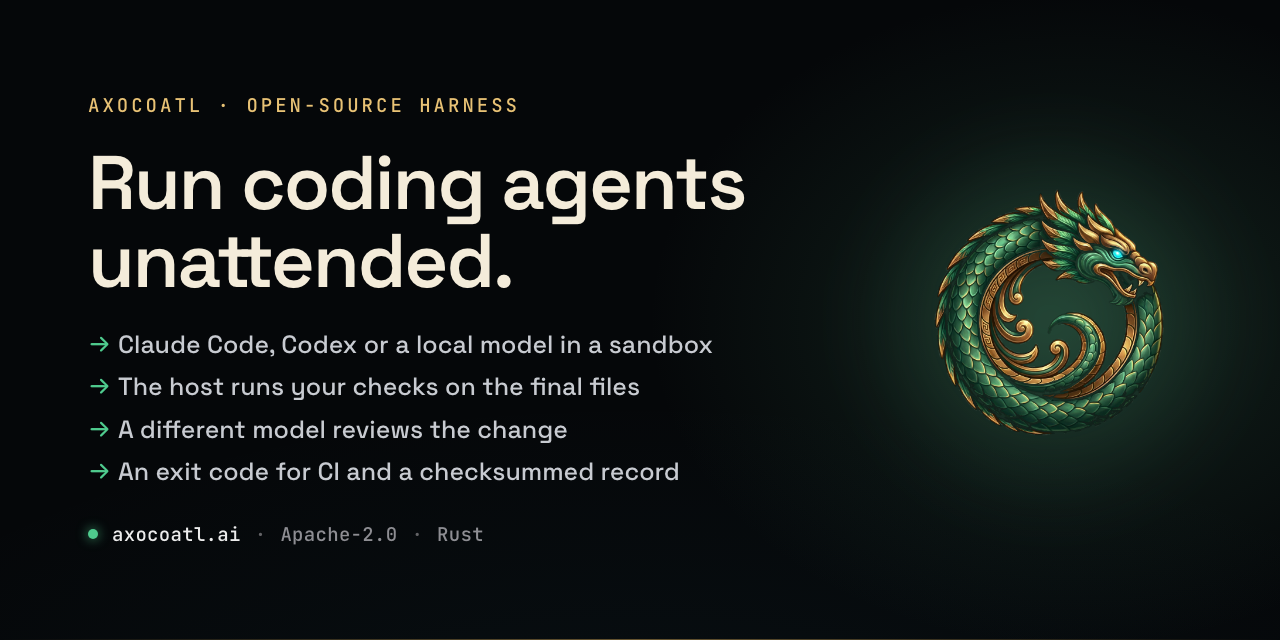
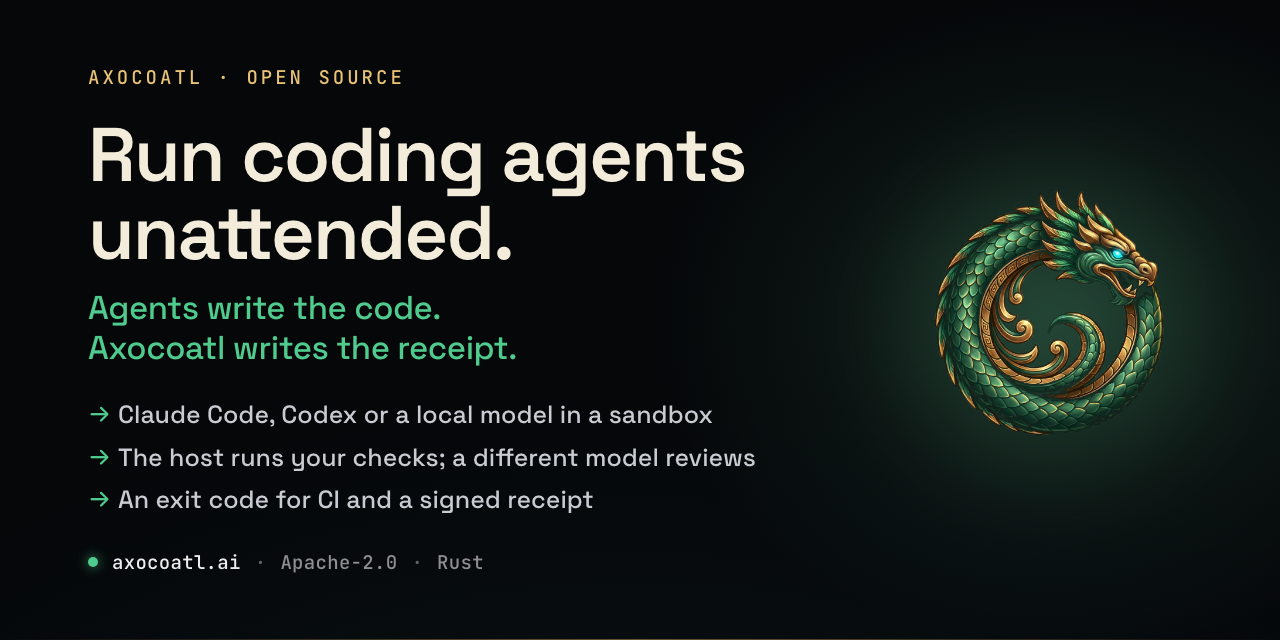
Render the social cards with the receipt kicker
The card now reads "Run coding agents unattended." with the kicker
"Agents write the code. Axocoatl writes the receipt." and three facts:
Claude Code, Codex or a local model in a sandbox; the host runs your
checks and a different model reviews; an exit code for CI and a signed
receipt. The eyebrow drops "harness". Re-rendered with
branding/render-cards.mjs at 1200x630 and 1280x640.

Changed region(s): [[0.0625, 0.0938, 0.5938, 0.5625], [0.0625, 0.5938, 0.5938, 0.9062]]

diff --git a/branding/launch-card.html b/branding/launch-card.html
@@ -43,7 +43,11 @@
   }
   h1 {
     font-size: 76px; font-weight: 600; letter-spacing: -2px;
-    color: #F4ECDA; line-height: 1.02; margin-bottom: 28px;
+    color: #F4ECDA; line-height: 1.02; margin-bottom: 18px;
+  }
+  .kicker {
+    font-size: 33px; font-weight: 500; letter-spacing: -0.5px;
+    color: #4FCB8E; line-height: 1.2; margin-bottom: 30px;
   }
   .facts { list-style: none; display: grid; gap: 10px; margin-bottom: 34px; }
   .facts li {
@@ -80,13 +84,13 @@
 <body>
   <div class="card">
     <div class="copy">
-      <div class="eyebrow">AXOCOATL · OPEN-SOURCE HARNESS</div>
+      <div class="eyebrow">AXOCOATL · OPEN SOURCE</div>
       <h1>Run coding agents<br>unattended.</h1>
+      <p class="kicker">Agents write the code.<br>Axocoatl writes the receipt.</p>
       <ul class="facts">
         <li>Claude Code, Codex or a local model in a sandbox</li>
-        <li>The host runs your checks on the final files</li>
-        <li>A different model reviews the change</li>
-        <li>An exit code for CI and a checksummed record</li>
+        <li>The host runs your checks; a different model reviews</li>
+        <li>An exit code for CI and a signed receipt</li>
       </ul>
       <div class="meta">
         <span class="dot"></span>axocoatl.ai
